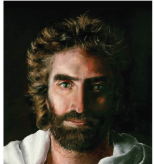
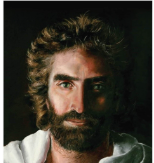
finished jesus visions article

diff --git a/src/pages/LandingPage.js b/src/pages/LandingPage.js
@@ -9,6 +9,7 @@ import igImage from "../images/igLogo.png";
 import bible from "../images/bible.webp";
 import bibleStudyImage from "../images/bibleStudyImage.jpg";
 import websiteLogo from "../images/websiteLogo.jpeg";
+import princeOfPeaceImage from "../images/croppedJesusPhoto.png";
 import Share from "../component/Share.js";
 
 
@@ -161,6 +162,13 @@ const LandingPage = () => {
           </div>
           <div className="rows">
             <div className="tile" onClick={VisionsOfChrist}>
+              <img src={princeOfPeaceImage} alt="Depiction of Jesus" id="jesusImage"/>
+              <h2 className="aboutUsTitle">Jesus looks like this?</h2>
+              <p className="aboutUsParagraph">Akiane Kramarik’s Prince of Peace, painted at eight from visions, was confirmed by Colton Burpo as the Jesus he saw in heaven after nearly dying at four. Their stories inspire faith despite skepticism. Both hold firm, sparking divine debate.</p>
+              <div className="tileDescriptionDiv">
+                <Share url="https://versefacts.com/JesusVisions" title="Check out this amazing article!" body="Check out this article:"/>
+                <p className="verseFacts">Verse Facts 2/19/2025</p>
+              </div>
 
             </div>
             <div className="tile">

diff --git a/src/styling/LandingPage.css b/src/styling/LandingPage.css
@@ -98,7 +98,7 @@ button:hover {
   justify-content: center;
   width: 100%;
   position: relative;
-  margin: 5% 0;
+  /* margin: 5% 0; */
   flex-wrap: wrap;
   text-align: center;
 }
@@ -150,7 +150,7 @@ button:hover {
 
  
 .tile #bible, .tile #bibleStudy,
-.tile #websiteLogo {
+.tile #websiteLogo{
   width: 100%; /* Ensures it takes the full width of the tile */
   height: 30vh; /* Consistent height for all images */
   object-fit: fill; /* Ensures a good fit without stretching */
@@ -158,7 +158,13 @@ button:hover {
   border-radius: 2%;
 }
 
-
+.tile #jesusImage {
+  width:110%;
+  height: 30vh; /* Consistent height for all images */
+  object-fit: fill; /* Ensures a good fit without stretching */
+  margin-bottom: 2%;
+  border-radius: 2%;
+}
 
 
 
@@ -229,6 +235,7 @@ button:hover {
   justify-content: center; /* Centers horizontally */
   align-items: center; /* Centers vertically */
 }
+
 
 /* Mobile Scaling */
 @media screen and (max-width: 768px) {

diff --git a/src/pages/HeavenlyVisionsArticle.js b/src/pages/HeavenlyVisionsArticle.js
@@ -79,7 +79,7 @@ function HeavenlyVisionsArticle() {
 
       {/* Conclusion */}
       <div className="hvSection">
-        <h3>Conclusion</h3>
+        <h3 className="middle">Conclusion</h3>
         <p>
           The convergence of Akiane Kramarik’s vision-driven artwork and Colton Burpo’s near-death experience presents an extraordinary and faith-affirming narrative. While skeptics continue to debate the supernatural elements, their accounts undeniably inspire believers and invite deeper contemplation about the nature of heaven, Jesus, and the mysteries of the divine. Whether one views their experiences as miraculous or coincidental, their stories have left an undeniable imprint on the conversation about faith and the afterlife.
         </p>

diff --git a/src/styling/HeavenlyVisionsArticle.css b/src/styling/HeavenlyVisionsArticle.css
@@ -9,6 +9,7 @@
     font-family: "Arial", sans-serif;
   }
   
+  
   /* Title */
   .hvTitle {
     font-size: 32px;
@@ -43,8 +44,7 @@
   }
   
   .hvImage img {
-    max-width: 100%;
-    height: auto;
+    height:40vh;
     border-radius: 8px;
     box-shadow: 0 4px 8px rgba(0, 0, 0, 0.1);
   }
